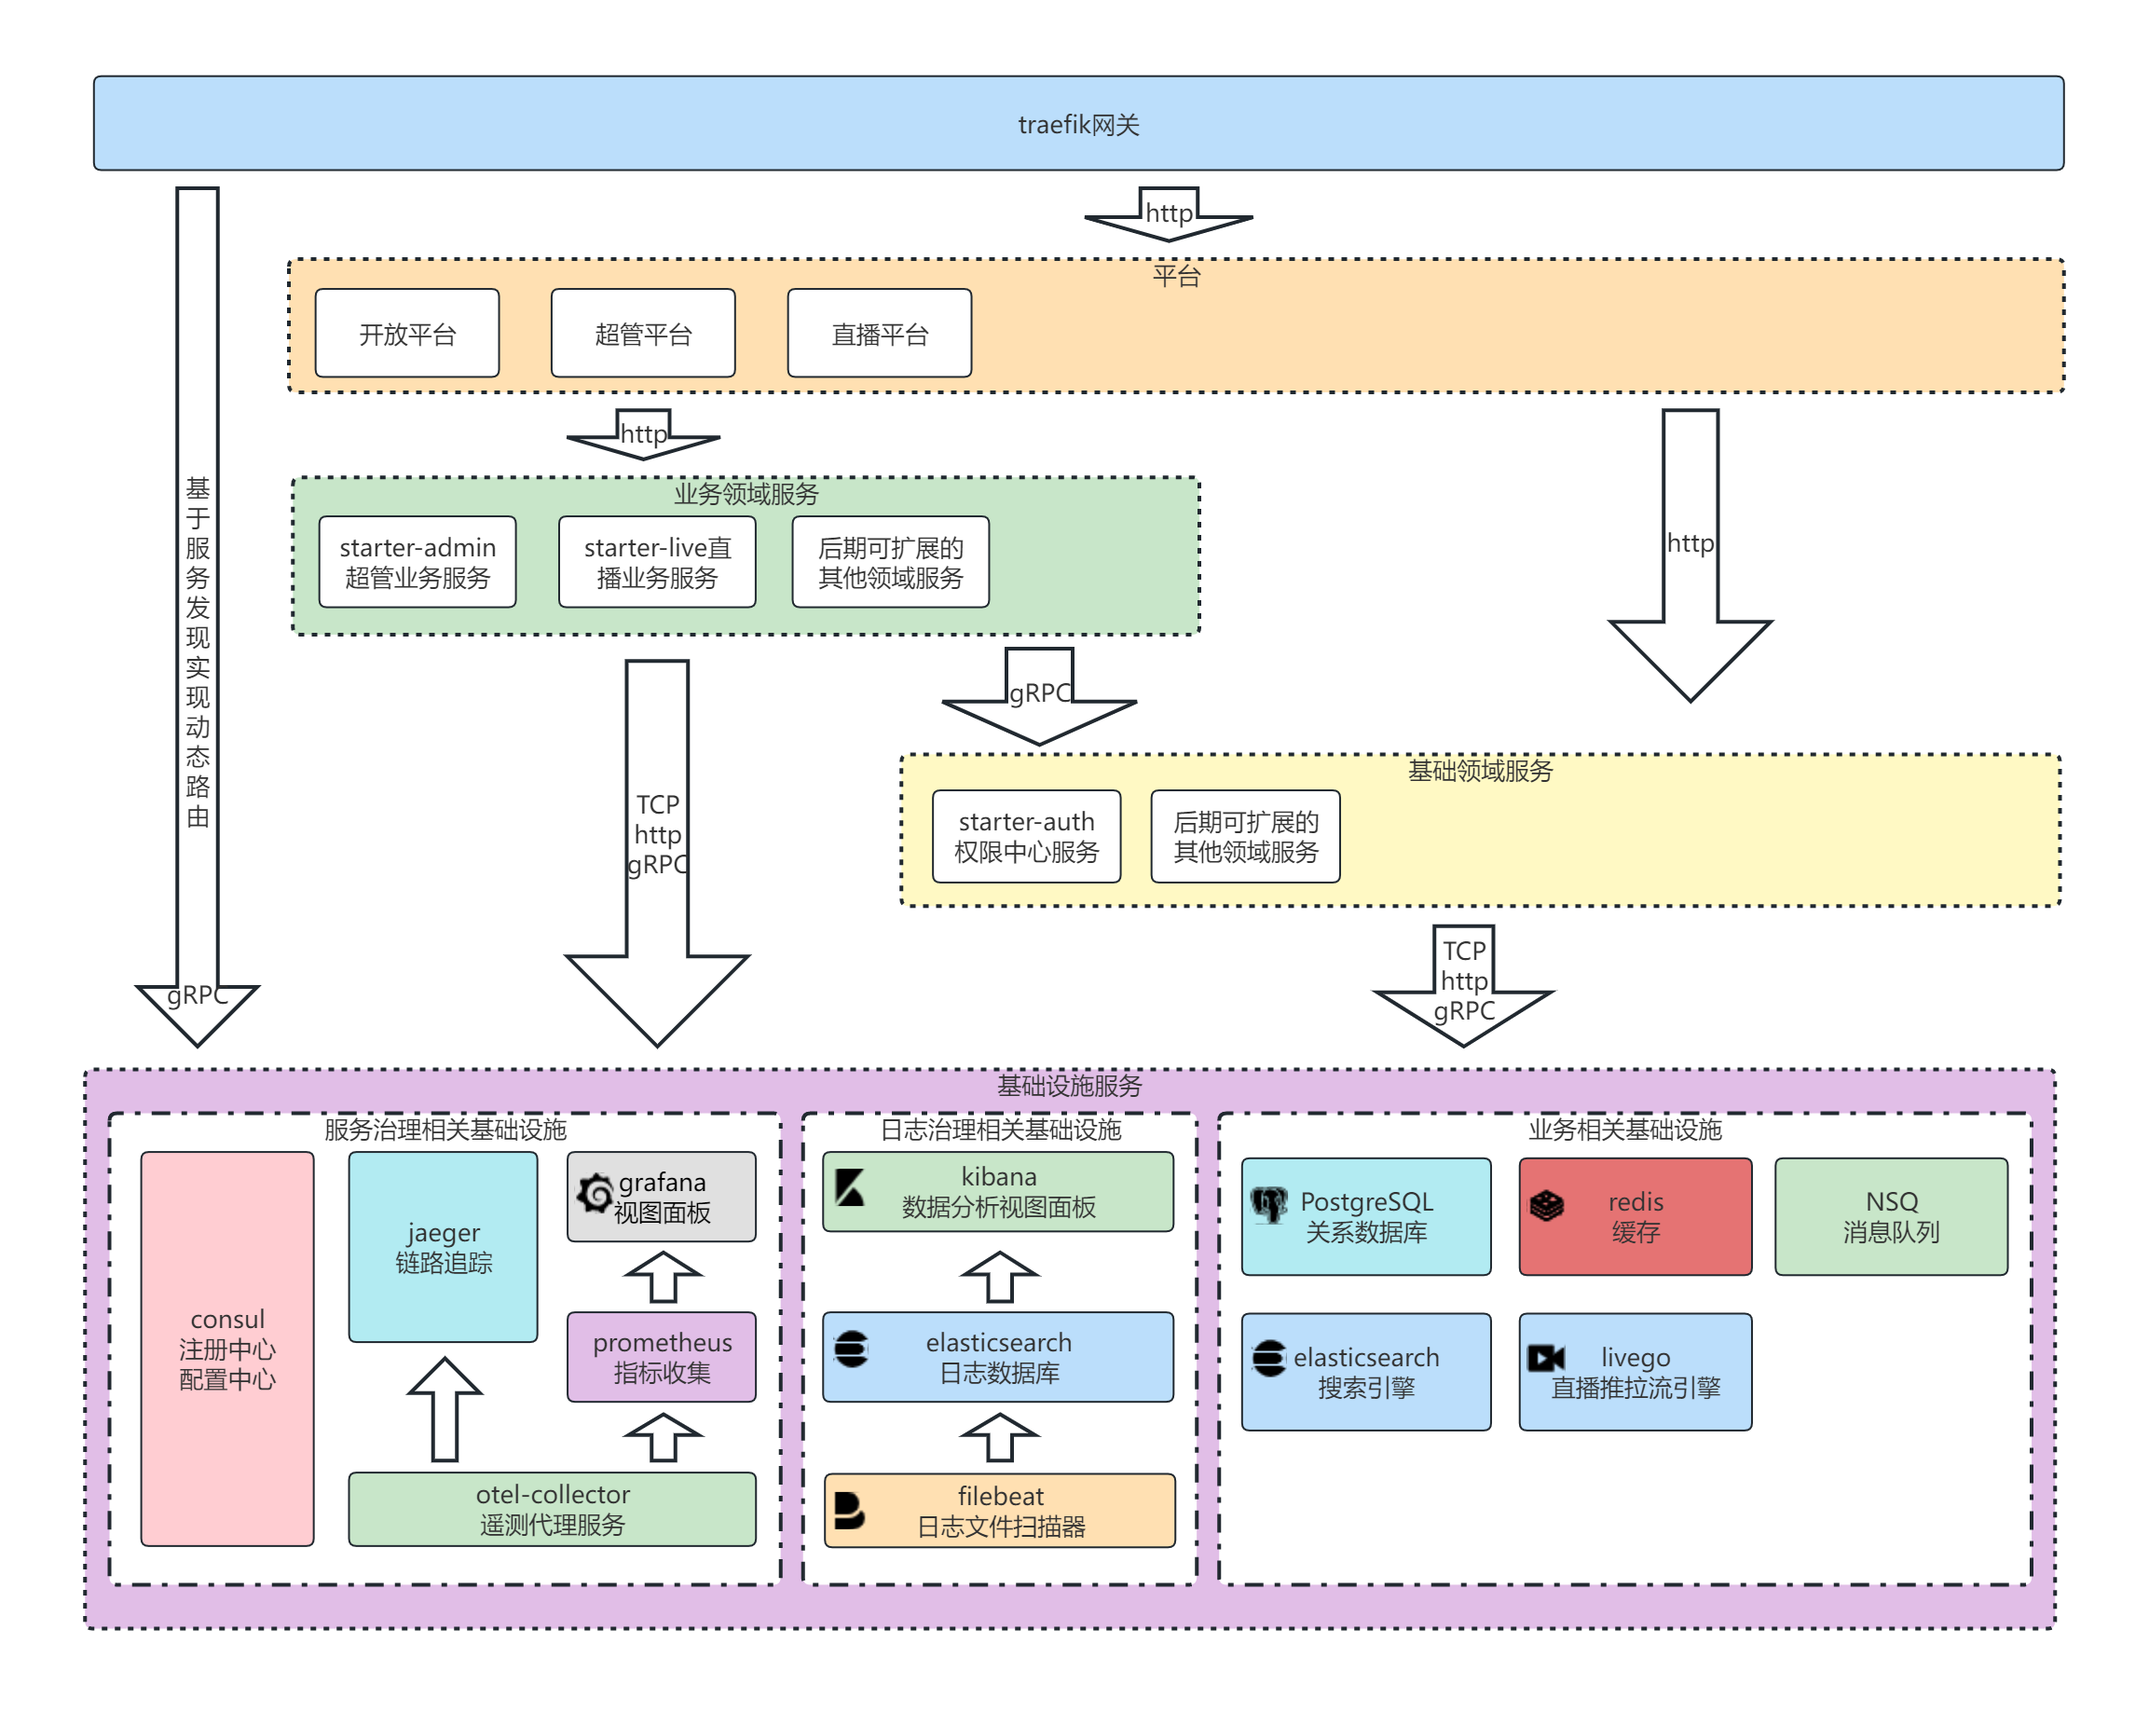
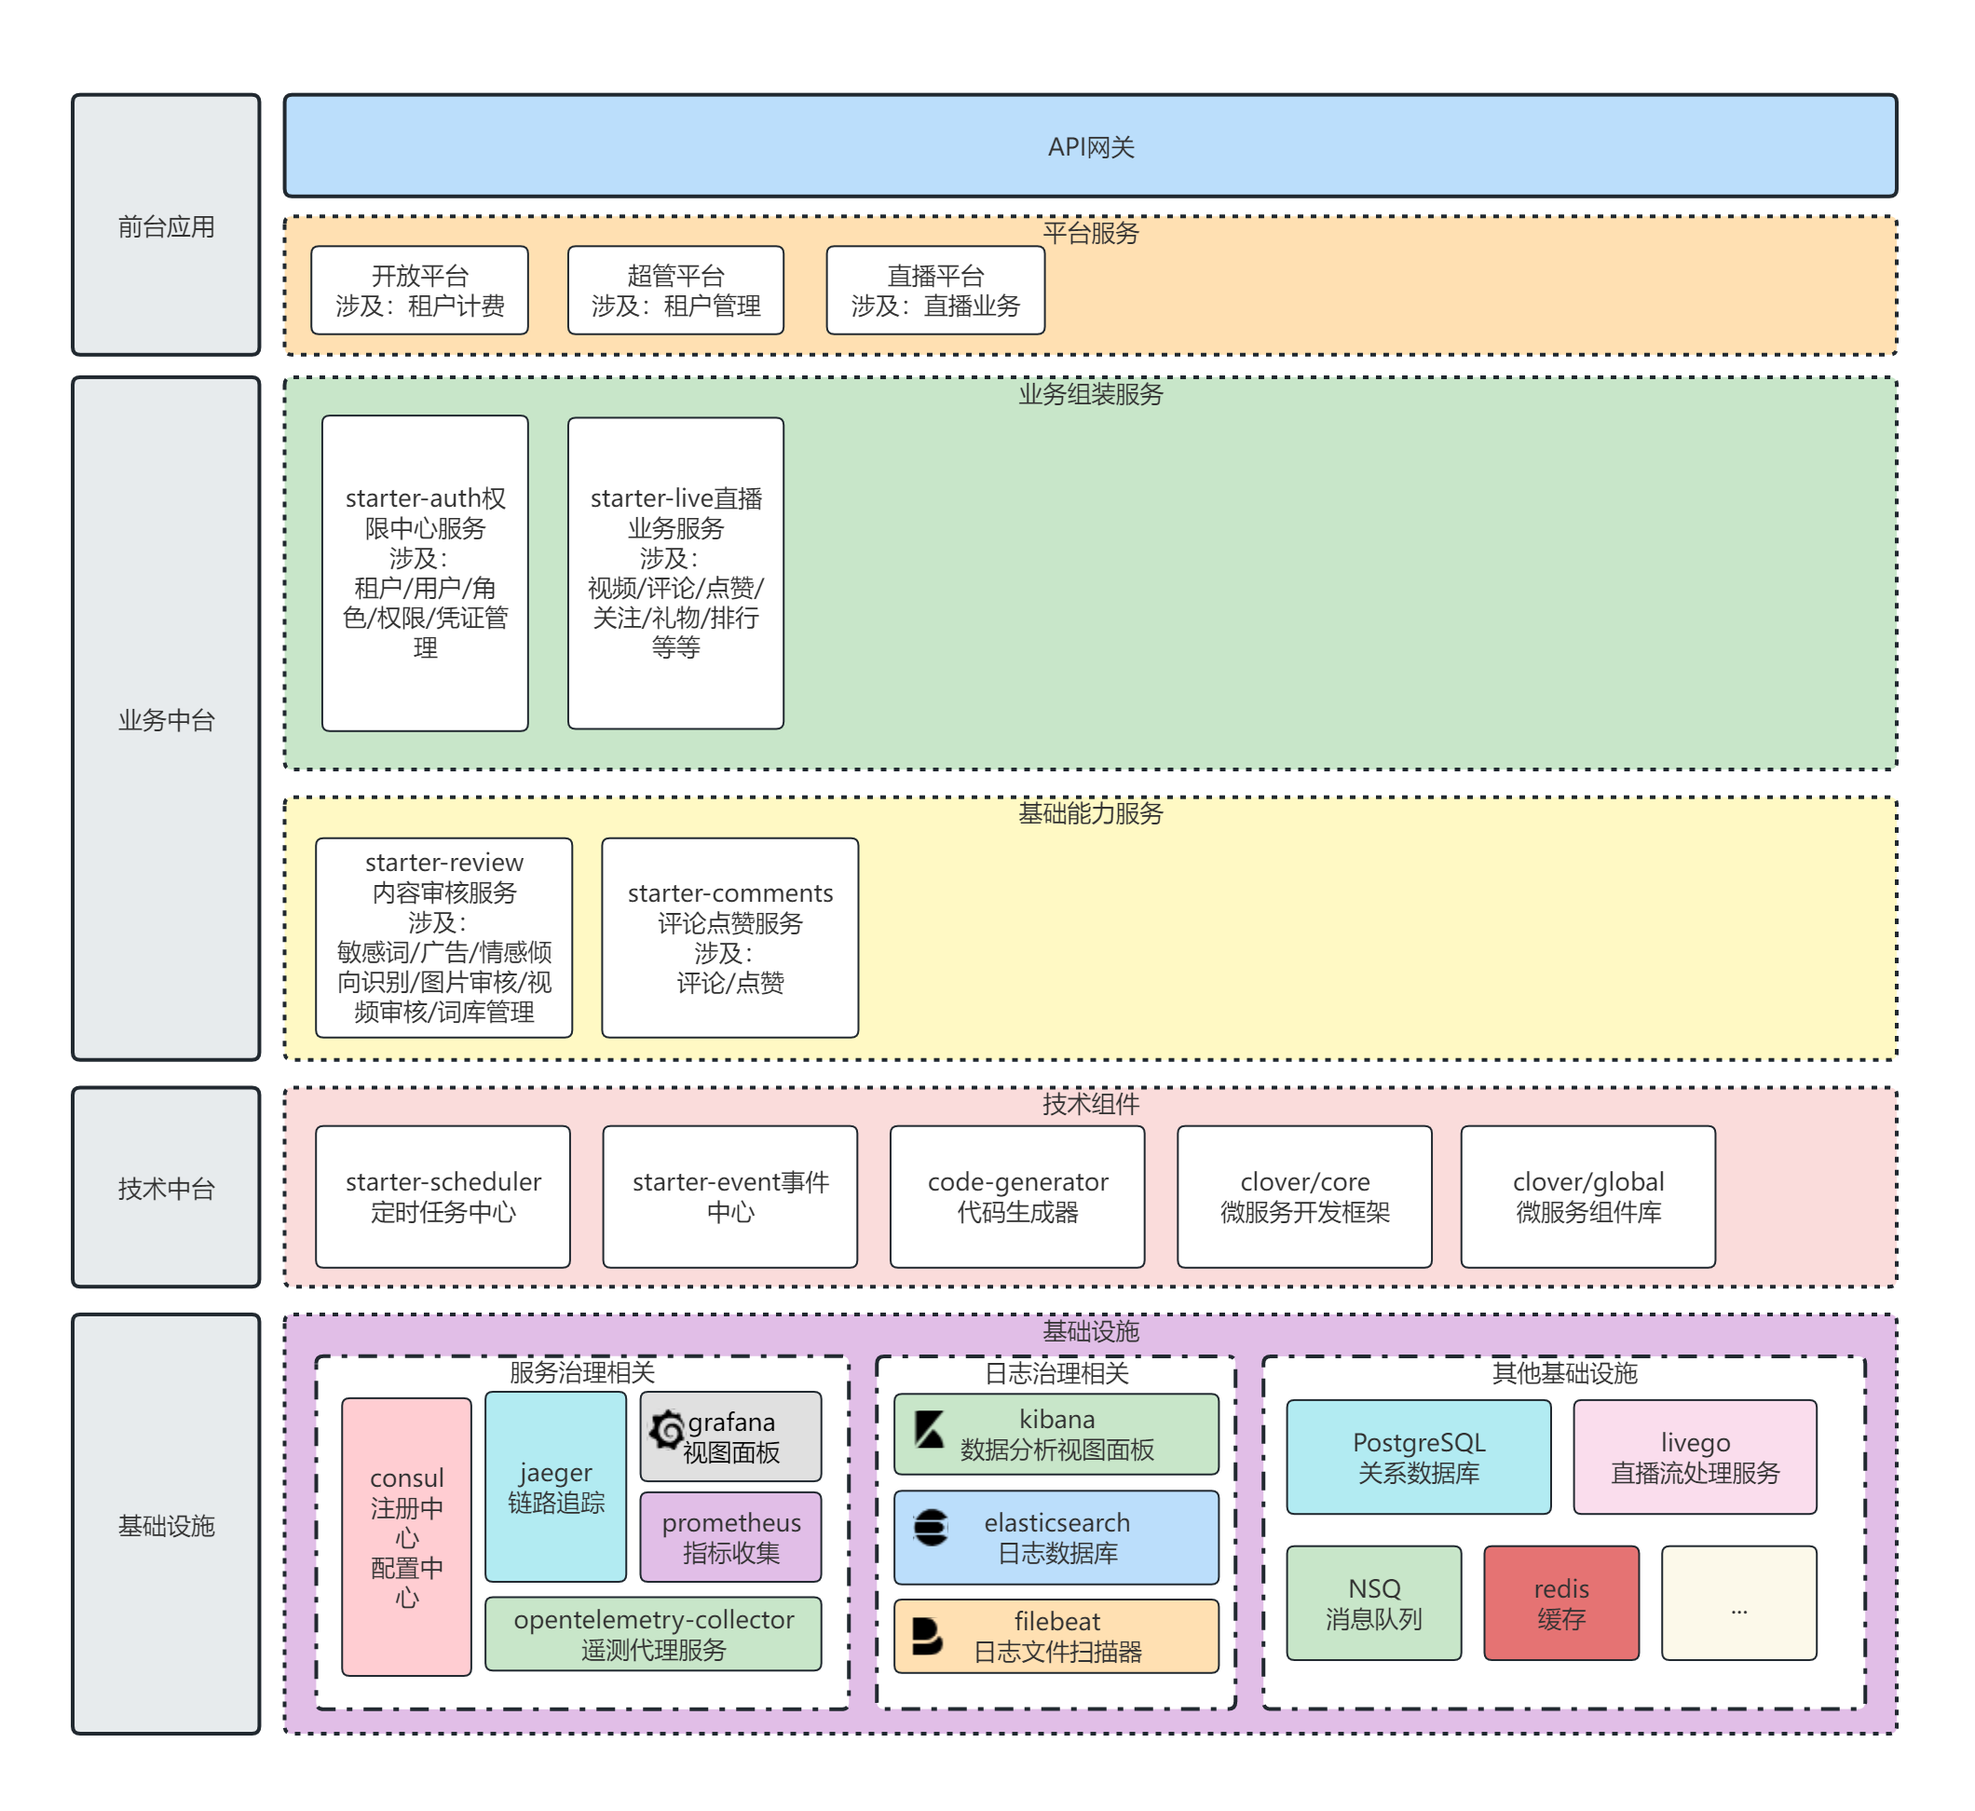
doc:更新分层架构图

diff --git a/README.md b/README.md
@@ -20,7 +20,7 @@
 
 ### 服务分层依赖架构
 
-![服务分层依赖架构](https://gitee.com/zhanjunjie/clover/raw/master/docs/imgs/services.svg?r=v1)
+![服务分层依赖架构](https://gitee.com/zhanjunjie/clover/raw/master/docs/imgs/services.svg?r=v2)
 
 ### 领域分层架构图
 
